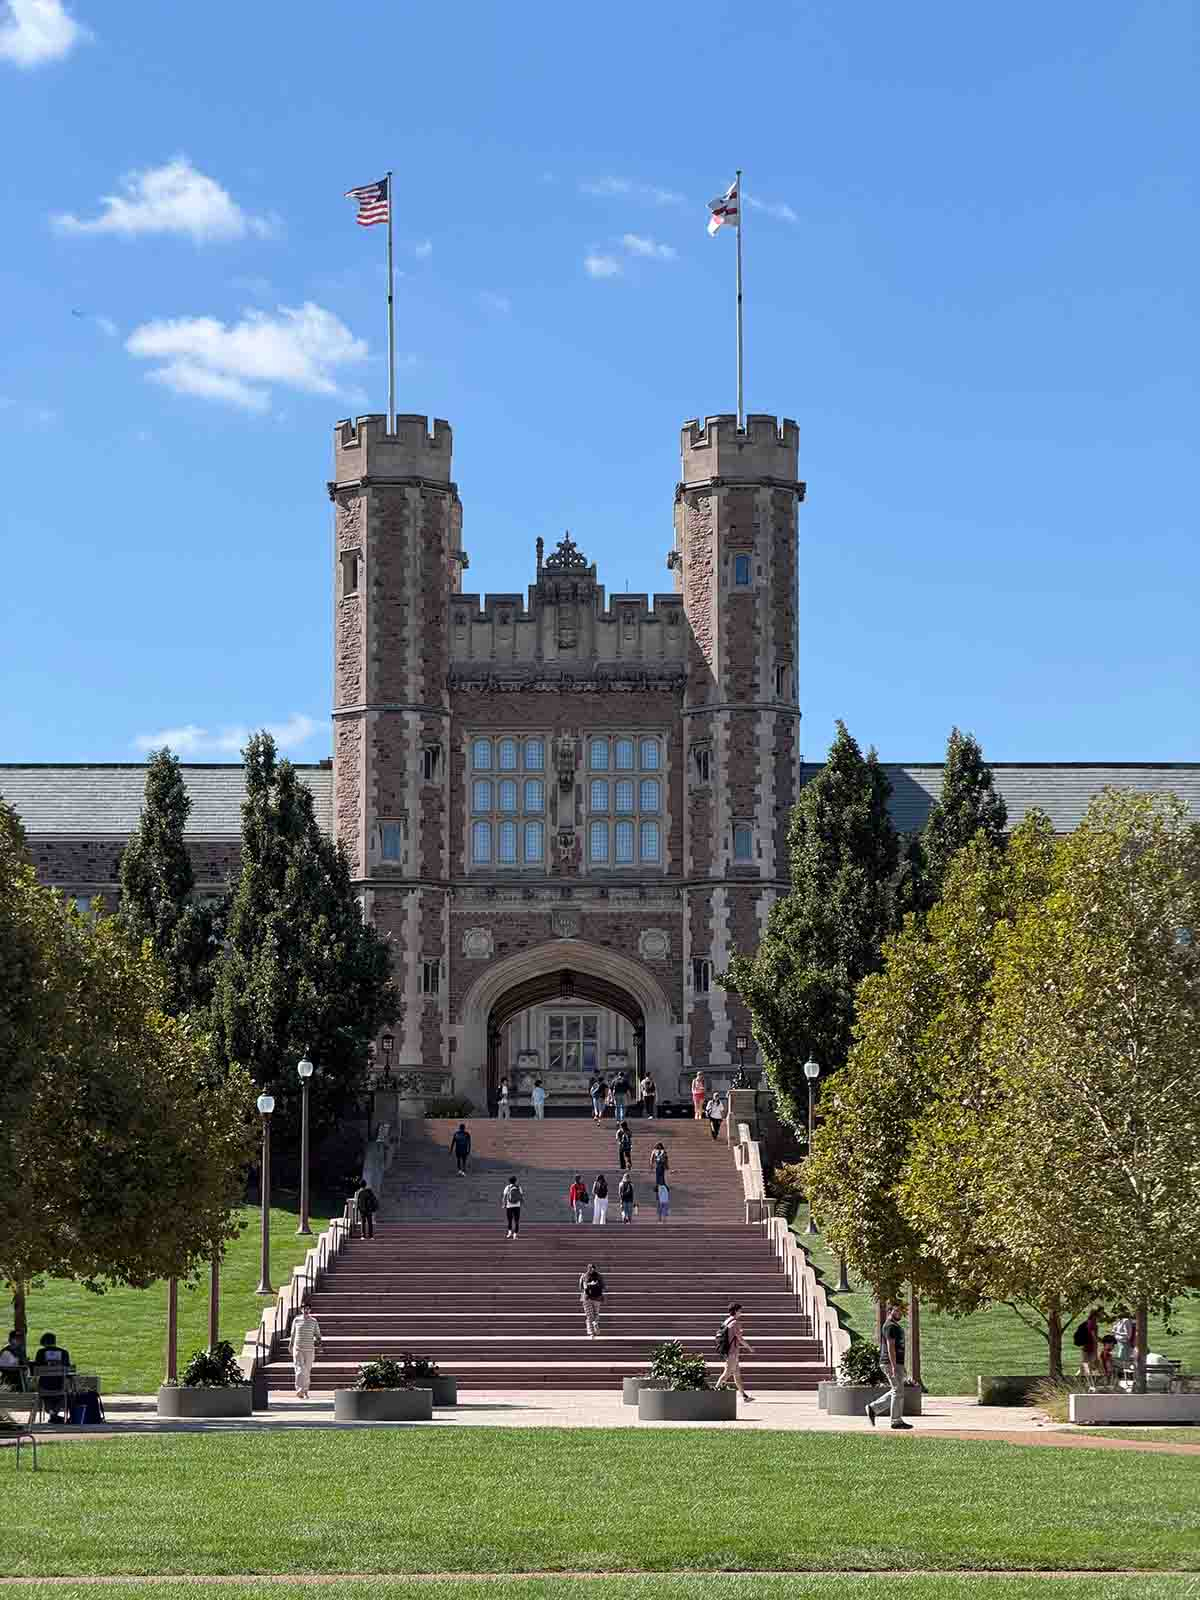
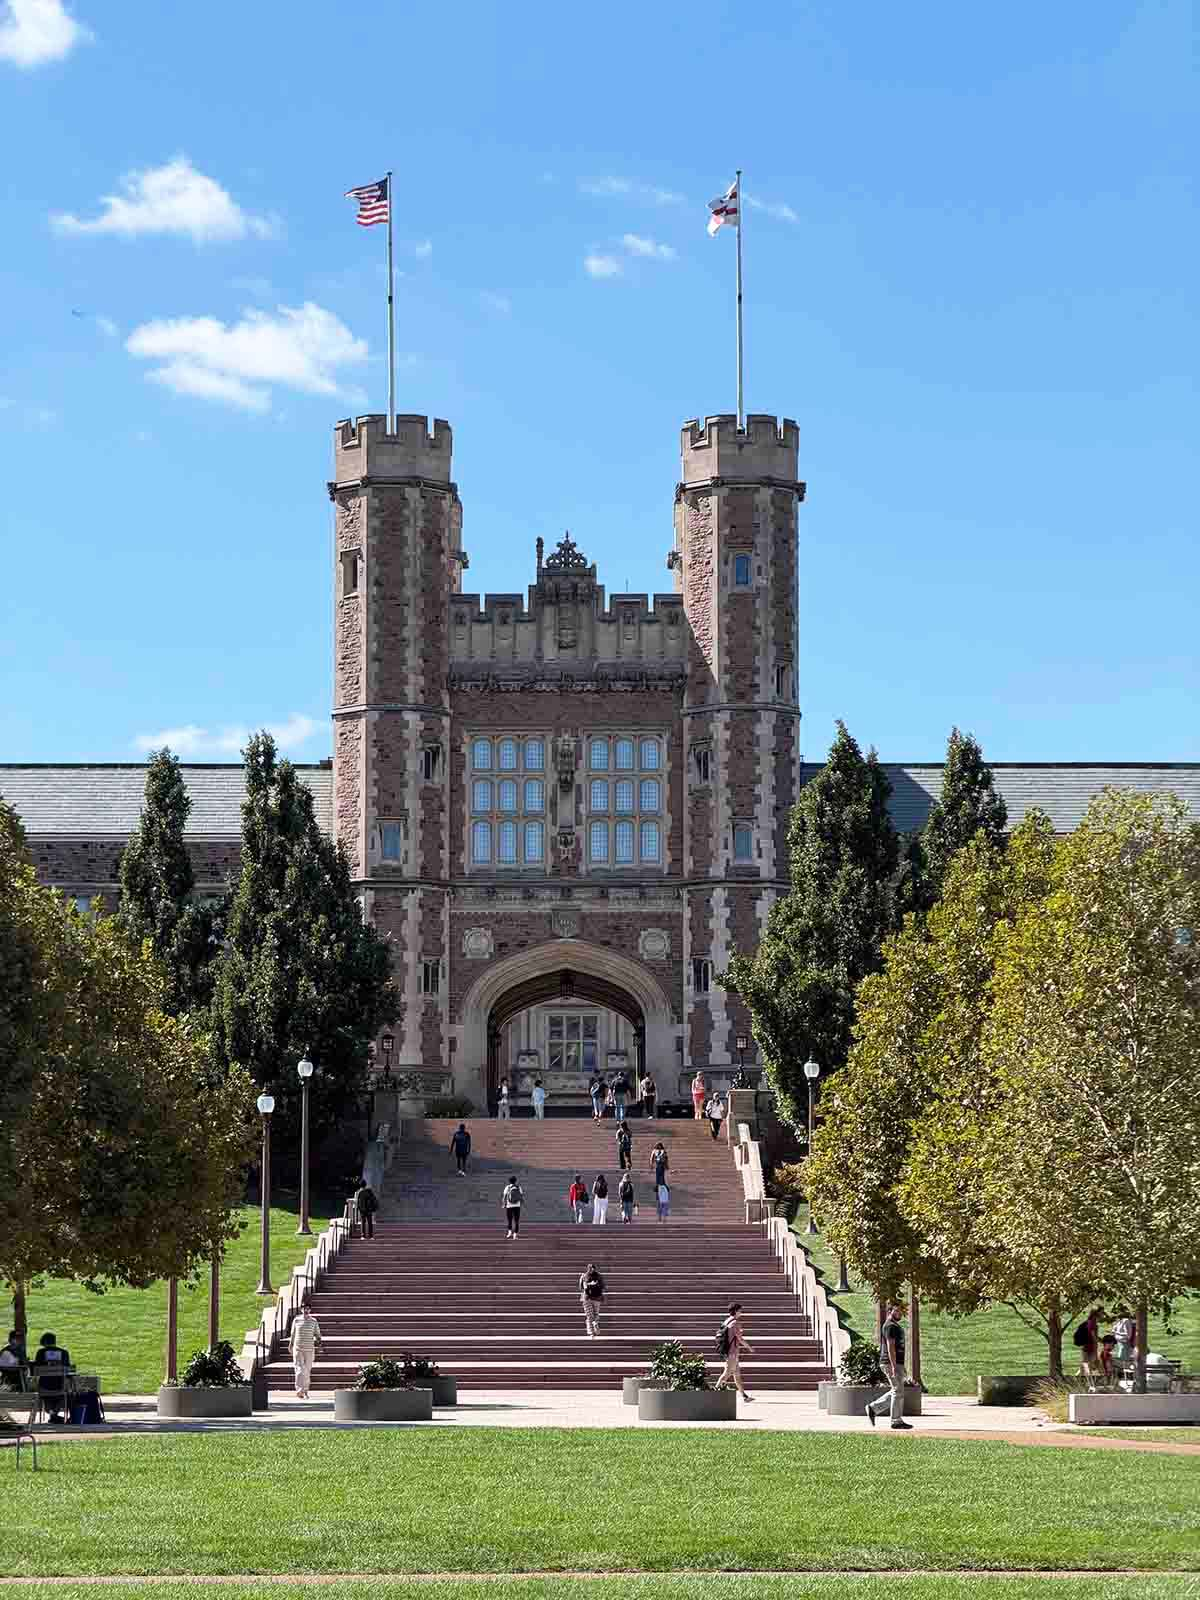
up

diff --git a/about.html b/about.html
@@ -409,7 +409,7 @@ grid-template-columns:clamp(220px, 34vw, 420px) minmax(0,1fr);  grid-template-ar
 
     <p>I’m a junior at WashU studying Communication Design and Business of the Arts. I’ve found my stride exploring human-centered design, design research, typography, illustration, branding, and art direction.</p>
 
-    <p>My skills include Figma, Adobe Creative Suite, Procreate, HTML, CSS, and JavaScript. When I’m not working in a Figma file, you can find me drawing, playing mahjong, practicing yoga, or learning Italian.</p>
+    <p>My skills include Adobe Creative Suite, Figma, Procreate, HTML, CSS, and JavaScript. When I’m not in the studio, you can find me drawing, playing mahjong, practicing yoga, or learning Italian.</p>
 
     <p>This summer, I interned with the Education Department at the <a class="plain-link" href="https://anumuseum.org.il/" target="_blank" rel="noopener">ANU Museum</a> in Tel Aviv, where I worked on research, content development, educational programming, and outreach. The experience strengthened my interest in using design to connect people with art, history, and culture.</p>
 
@@ -436,7 +436,6 @@ grid-template-columns:clamp(220px, 34vw, 420px) minmax(0,1fr);  grid-template-ar
     <div class="about-strip" id="aboutStrip">
 <figure><img class="headshot" src="aboutimages/headshot.jpg" alt="Portrait of Avery"></figure>
       <figure><img src="aboutimages/about1.jpg" alt="Cherry blossoms, black and white"></figure>
-      <figure><img src="aboutimages/about2.jpg" alt="Desk setup, work in progress"></figure>
       <figure><img src="aboutimages/about3.jpg" alt="Cherry blossoms, black and white"></figure>
       <figure><img src="aboutimages/about4.jpg" alt="Studio detail"></figure>
     </div>
